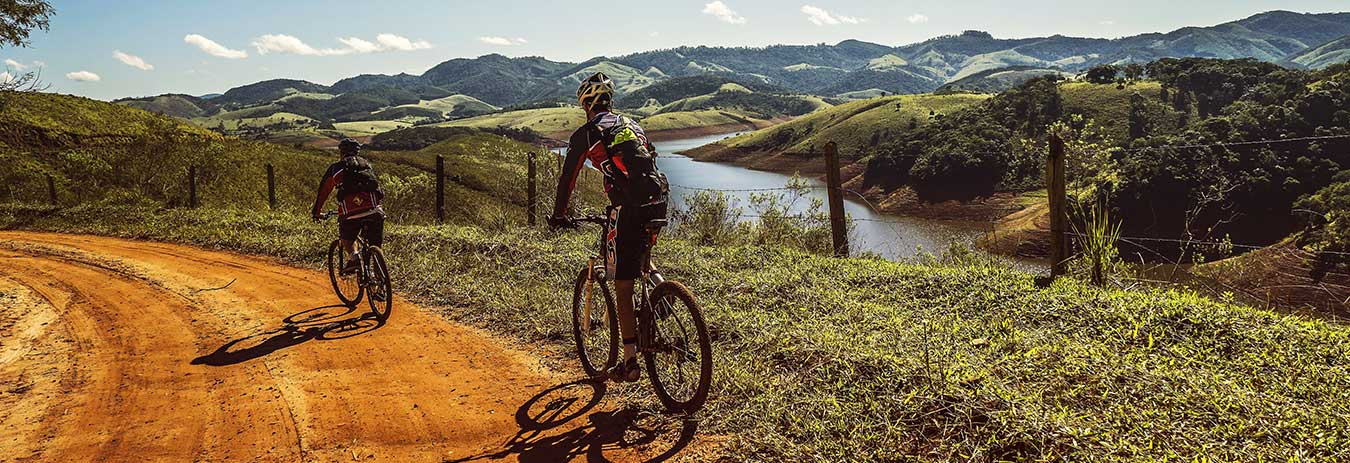
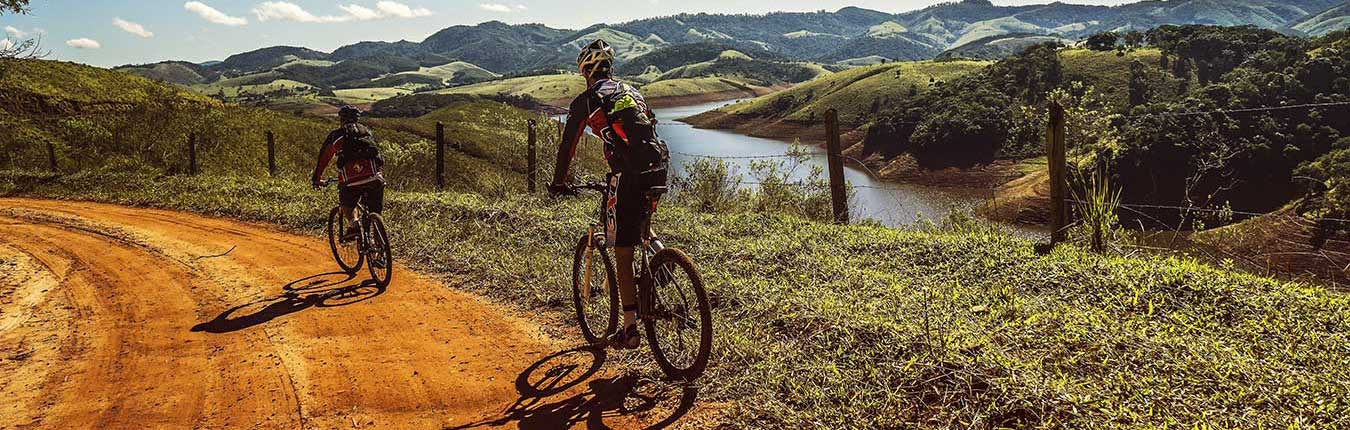
changed nav location

diff --git a/assignments/bikingsite/contact.html b/assignments/bikingsite/contact.html
@@ -17,13 +17,10 @@
 <body>
     
     <header>
-       <img src="images/logo.png" alt="The site logo" >
+       <img src="images/logo-b1.png" alt="The site logo" >
     
     </header>
-     <figure>
-      <img src="images/ride-b1.jpg" alt="downhill biker" width="1350" >
-    </figure>
-         
+    
          
     <nav>
         <button  onclick="toggleNavMenu()">&#9776;</button> 
@@ -38,6 +35,12 @@
       </ul>
     
     </nav>
+    
+     <figure>
+      <img src="images/ride-b1.jpg" alt="downhill biker" width="1350" >
+    </figure>
+         
+    
      <main>
          <iframe src="https://www.google.com/maps/embed?pb=!1m18!1m12!1m3!1d2787.9314410354295!2d-111.0929061852413!3d45.67227662755737!2m3!1f0!2f0!3f0!3m2!1i1024!2i768!4f13.1!3m3!1m2!1s0x5345459ab72cb6df%3A0xbb98968f9648ea88!2s3950+Valley+Commons+Dr%2C+Bozeman%2C+MT+59718!5e0!3m2!1sen!2sus!4v1522948613730" width="400" height="300" frameborder="0" style="border:0" allowfullscreen></iframe>
          

diff --git a/assignments/bikingsite/service.html b/assignments/bikingsite/service.html
@@ -17,12 +17,10 @@
 <body>
     
     <header>
-       <img src="images/logo.png" alt="The site logo" >
+       <img src="images/logo-b1.png" alt="The site logo" >
     
     </header>
-     <figure>
-      <img src="images/tire-b.jpg" alt="downhill biker" width="1350" >
-    </figure>
+    
     <nav>
         <button  onclick="toggleNavMenu()">&#9776;</button> 
       <ul id="NavMenu" class="hide">
@@ -36,6 +34,10 @@
       </ul>
     
     </nav>
+    
+     <figure>
+      <img src="images/tire-b.jpg" alt="downhill biker" width="1350" >
+    </figure>
     
     <main>
           

diff --git a/assignments/bikingsite/tours.html b/assignments/bikingsite/tours.html
@@ -20,12 +20,10 @@
 <body>
     
     <header>
-       <img src="images/logo.png" alt="The site logo" >
+       <img src="images/logo-b1.png" alt="The site logo" >
     
     </header>
-     <figure>
-      <img src="images/dirt-b.jpg" alt="downhill biker" width="1350" >
-    </figure>
+     
          
          
     <nav>
@@ -41,6 +39,10 @@
       </ul>
     
     </nav>
+    
+    <figure>
+      <img src="images/dirt-b.jpg" alt="downhill biker" width="1350" >
+    </figure>
     
     <main>
         <div class="grid-container">

diff --git a/assignments/bikingsite/sales.html b/assignments/bikingsite/sales.html
@@ -20,12 +20,10 @@
 <body>
     
     <header>
-       <img src="images/logo.png" alt="The site logo" >
+       <img src="images/logo-b1.png" alt="The site logo" >
     
     </header>
-     <figure>
-      <img src="images/road-b.jpg" alt="downhill biker" width="1350" >
-    </figure>
+    
          
     <nav>
         <button  onclick="toggleNavMenu()">&#9776;</button> 
@@ -41,7 +39,9 @@
     
     </nav>
     
-   
+    <figure>
+      <img src="images/road-b.jpg" alt="downhill biker" width="1350" >
+    </figure>
        
 
 

diff --git a/assignments/bikingsite/events.html b/assignments/bikingsite/events.html
@@ -17,12 +17,10 @@
 <body>
     
     <header>
-       <img src="images/logo.png" alt="The site logo" >
+       <img src="images/logo-b1.png" alt="The site logo" >
     
     </header>
-     <figure>
-      <img src="images/look1.jpg" alt="downhill biker" width="1350" >
-    </figure>
+     
          
          
     <nav>
@@ -38,6 +36,11 @@
       </ul>
     
     </nav>
+    
+    <figure>
+      <img src="images/look1.jpg" alt="downhill biker" width="1350" >
+    </figure>
+    
     
     <main>
          

diff --git a/assignments/bikingsite/home.html b/assignments/bikingsite/home.html
@@ -18,12 +18,10 @@
 <body>
     
     <header>
-       <img src="images/logo.png" alt="The site logo" >
+       <img src="images/logo-b1.png" alt="The site logo" >
     
     </header>
-     <!--<figure>
-      <img src="images/down.jpg" alt="downhill biker" width="1350" >
-    </figure>-->
+   
          
          
     <nav>
